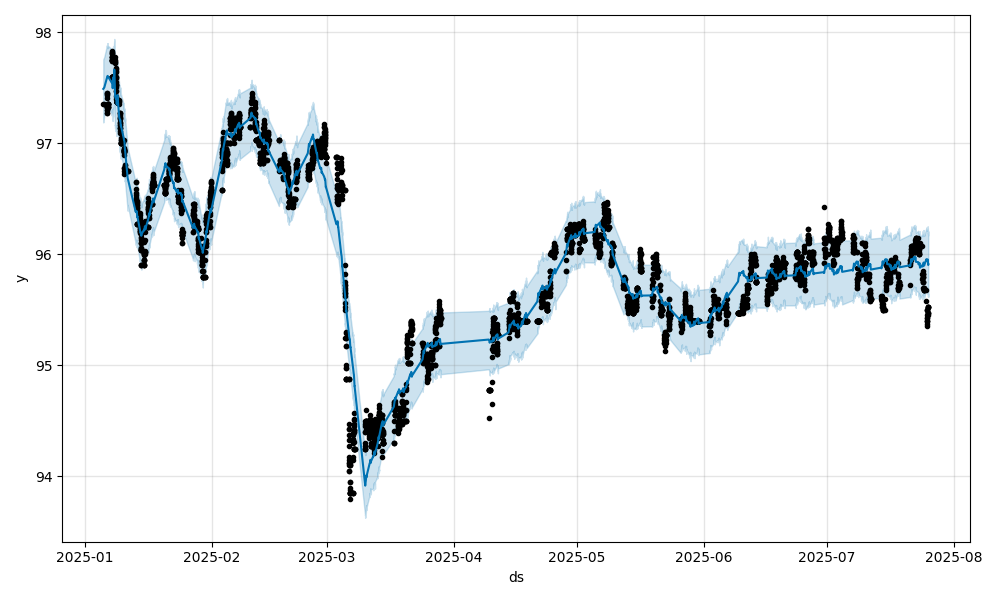
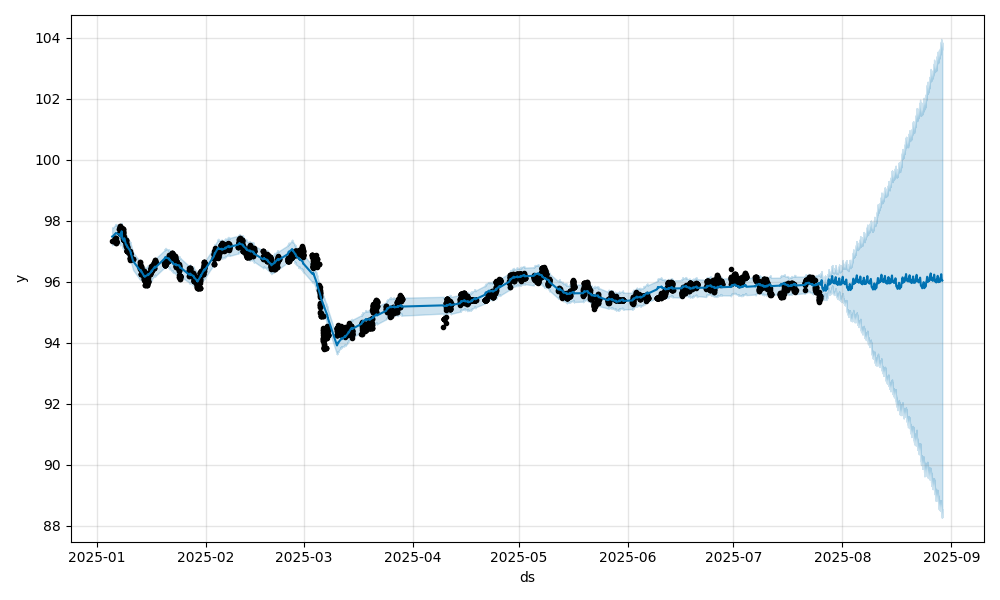
clean forecasting

diff --git a/scrape_rate/forecast/forecast_rate.py b/scrape_rate/forecast/forecast_rate.py
@@ -14,7 +14,7 @@ from scrape_rate.config import DATA_DIR, PLOT_DIR
 class ForecastConfig:
     data_dir: Path = DATA_DIR
     plot_dir: Path = PLOT_DIR
-    periods: int = 10
+    periods: int = 10_000
     freq: str = "5min"
     rate: str = "3,50"
 
